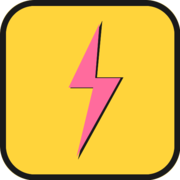
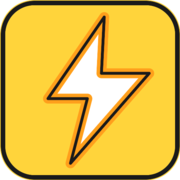
update

Changed region(s): [[0.0, 0.0, 1.0, 1.0]]

diff --git a/src/multiplication-practice.jsx b/src/multiplication-practice.jsx
@@ -134,6 +134,29 @@ function MasteryDots({ level, max = 3 }) {
   );
 }
 
+function LightningBolt({ size = 32 }) {
+  return (
+    <svg width={size} height={size} viewBox="0 0 64 64" fill="none" xmlns="http://www.w3.org/2000/svg">
+      <path
+        d="M38 4L14 36h14L22 60l28-32H36L38 4z"
+        fill="white"
+        stroke={COLORS.orange}
+        strokeWidth="4"
+        strokeLinejoin="round"
+        strokeLinecap="round"
+      />
+      <path
+        d="M38 4L14 36h14L22 60l28-32H36L38 4z"
+        fill="none"
+        stroke={COLORS.black}
+        strokeWidth="1.5"
+        strokeLinejoin="round"
+        strokeLinecap="round"
+      />
+    </svg>
+  );
+}
+
 function BrutalButton({ onClick, children, bg = "white", color = COLORS.black, small = false, active = false, style = {} }) {
   return (
     <button onClick={onClick} style={{
@@ -285,19 +308,24 @@ export default function JackFlash() {
 
       {/* Header */}
       <div style={{
-        background: COLORS.yellow, padding: "20px 20px 16px",
+        background: COLORS.yellow, padding: "18px 20px 14px",
         borderBottom: `4px solid ${COLORS.black}`,
       }}>
-        <div style={{ maxWidth: 540, margin: "0 auto", display: "flex", justifyContent: "space-between", alignItems: "center" }}>
-          <div>
-            <h1 style={{ fontFamily: "'Shrikhand', cursive", fontSize: "28px", fontWeight: 400, margin: 0, color: COLORS.black, letterSpacing: "0.5px" }}>
-              {"⚡"} JackFlash
-            </h1>
-            <p style={{ fontSize: "12px", margin: "2px 0 0", fontWeight: 600, fontFamily: "'Space Mono', monospace", color: COLORS.black, opacity: 0.6 }}>
-              multiplication & division practice
+        <div style={{ maxWidth: 540, margin: "0 auto" }}>
+          {/* Centered logo lockup */}
+          <div style={{ display: "flex", flexDirection: "column", alignItems: "center", marginBottom: "12px" }}>
+            <div style={{ display: "flex", alignItems: "center", gap: "6px" }}>
+              <LightningBolt size={36} />
+              <h1 style={{ fontFamily: "'Shrikhand', cursive", fontSize: "32px", fontWeight: 400, margin: 0, color: COLORS.black, letterSpacing: "0.5px" }}>
+                JackFlash
+              </h1>
+            </div>
+            <p style={{ fontSize: "12px", margin: "2px 0 0", fontWeight: 600, fontFamily: "'Space Mono', monospace", color: COLORS.black, opacity: 0.5, letterSpacing: "1.5px", textTransform: "uppercase" }}>
+              multiply & divide
             </p>
           </div>
-          <div style={{ display: "flex", gap: "8px", alignItems: "center" }}>
+          {/* Controls row */}
+          <div style={{ display: "flex", justifyContent: "center", gap: "8px", alignItems: "center", flexWrap: "wrap" }}>
             {sessionStats.total > 0 && (
               <div style={{
                 fontFamily: "'Space Mono', monospace", fontSize: "14px", fontWeight: 700,
